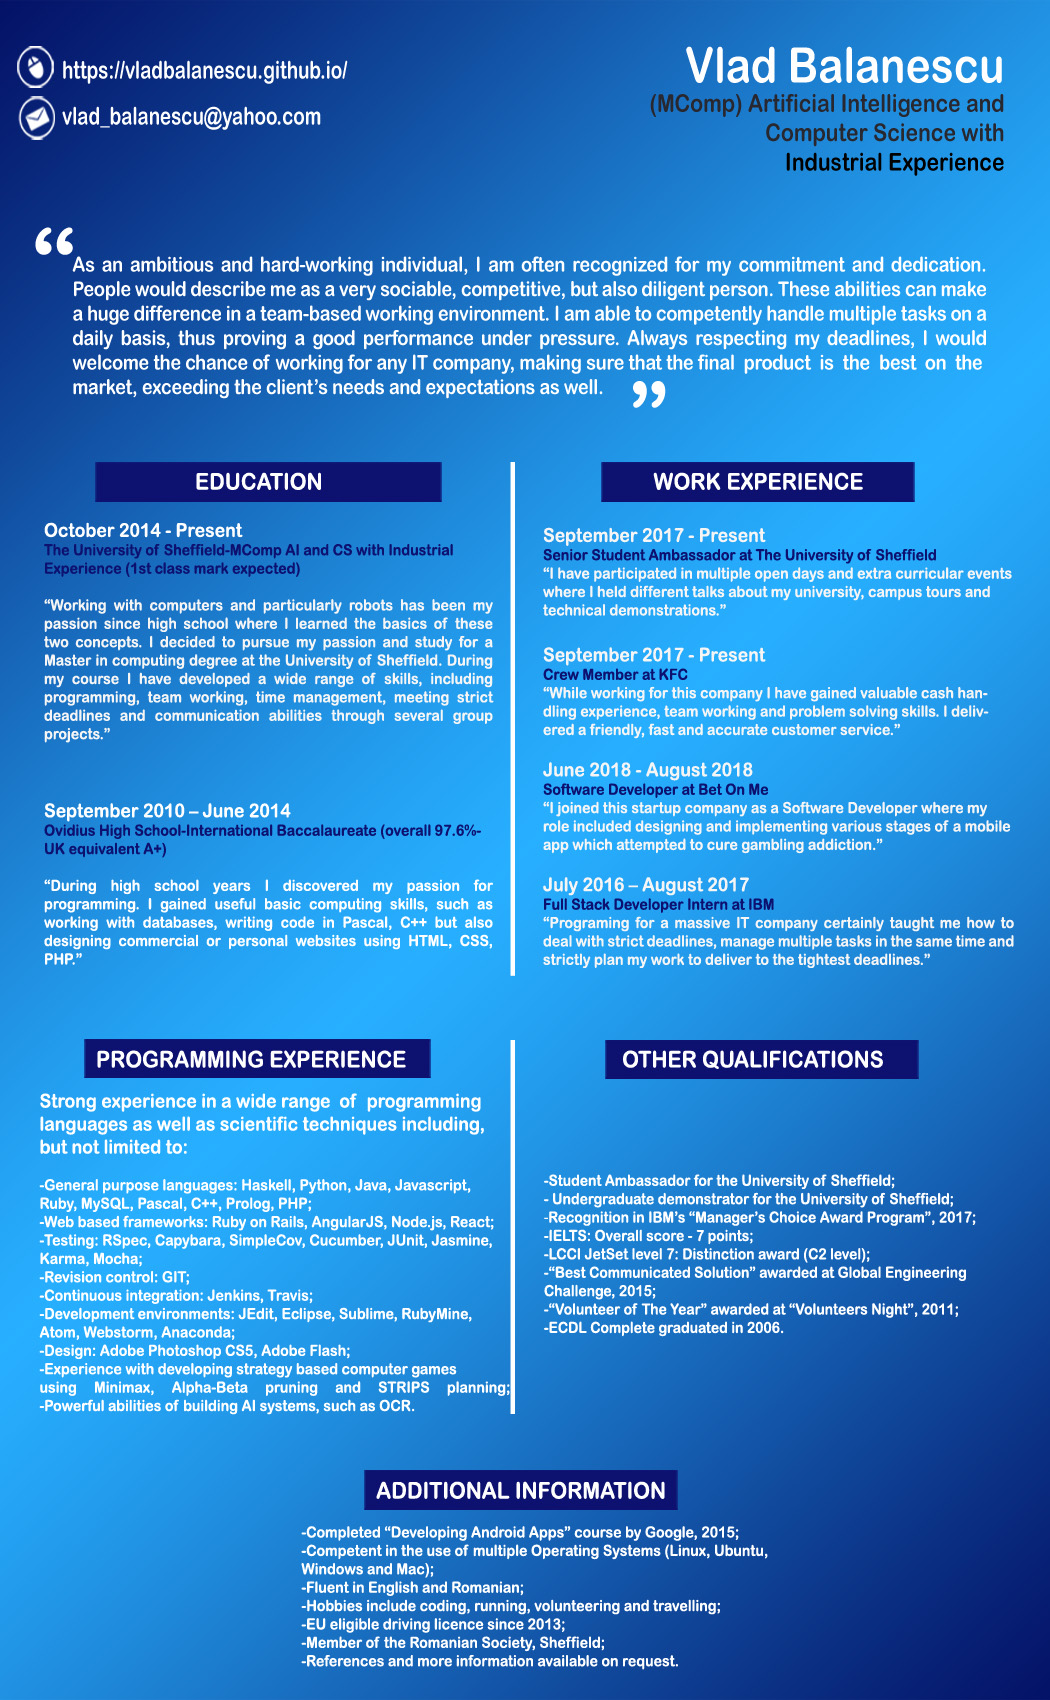
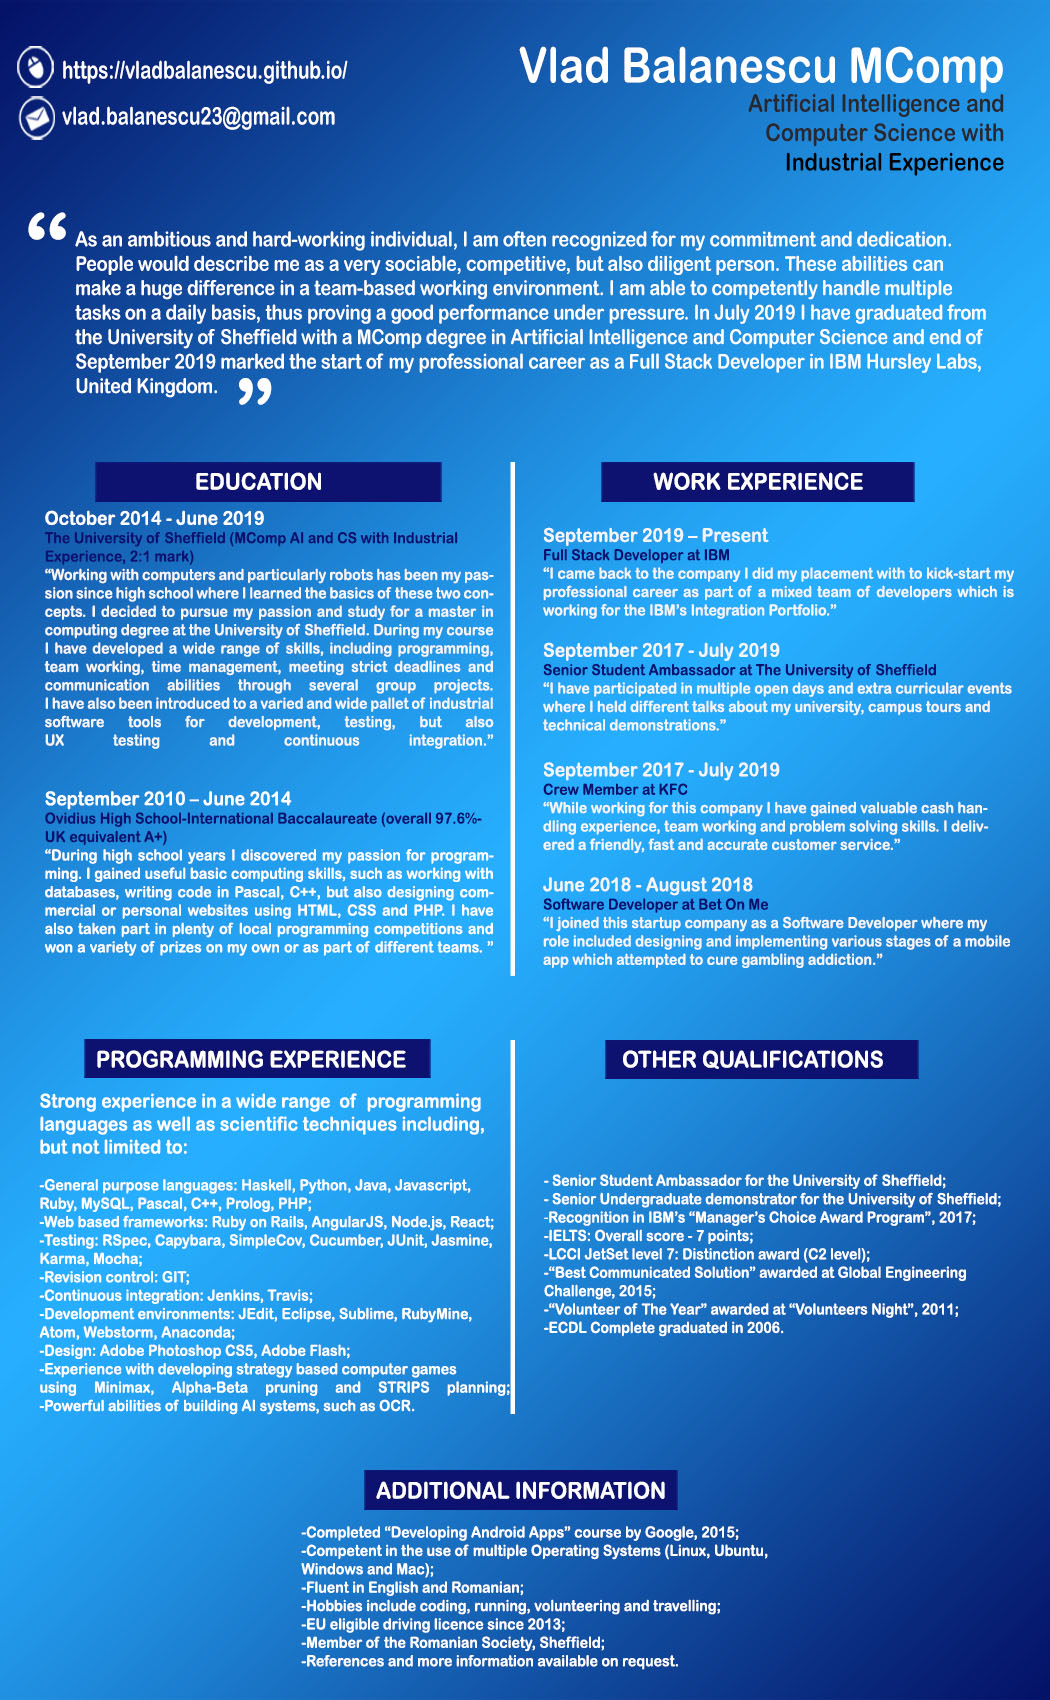
Changed the version to the most recent version

diff --git a/index.html b/index.html
@@ -90,7 +90,7 @@
 				<div class="front">
 					<!-- front content -->
 					<div id="titleBox">
-						<p id="title">  Final year student at The University of Sheffield</p>
+						<p id="title">  Full Stack Developer at IBM Hursley Labs, UK</p>
 						<p id="degree">(MComp) Artificial Intelligence and Computer Science with Industrial Experience </p>
 					</div>
 				</div>
@@ -117,7 +117,7 @@
 			</li>
 			<li><img class="top" src="Multimedia/Gallery/G3.jpg" alt="" /></li>
 		</ul>
-		<a href="passions.html#fullGallery" id="visitG"> Visit the full gallery ! </a>
+		<a href="passions.html#fullGallery" id="visitG"> Visit the entire gallery  </a>
 
 		<!--Story box-->
 		<div id="aboutMeBox">
@@ -140,7 +140,7 @@
 			<!--<a href="#" id="readMore">
       Read more here! </a>-->
 			<p class="storyTitle"> What's Coming Next? </p>
-			<p class="story"> After finishing the remaining 2 university years, I am looking forward to work for a well-known IT company, where I will definitely have the chance to put all my skills and abilities into practice. I would really welcome the chance to either give a
+			<p class="story"> After finishing the last 2 university years, I am looking forward to start my professional career as a Full Stack Developer at IBM Hursley Labs, United Kingdom. I will definitely have the chance to put all my skills and abilities into practice. I would really welcome the chance to either give a
 				hand in coding for a big software project or pursuing and developing even further the world of Artificial Intelligence, discovering maybe some brand new concepts relevant to this domain. I am very passionate about human language processing, hence
 				I think this is the most suitable way to set up a mutual communication bridge between humans and machines. Nowadays, this ability is seen as the best way of proving a machine made up of different mechanical components tightened together by wires can
 				demonstrate intelligence.</p>
@@ -157,8 +157,8 @@
 				</li>
 			</ul>
 		</div>
-		<p id="footerText"> &copy; Vlad Balanescu | Personal Website | All rights reserved | 2018</p>
-		<p id="footerText2"> Last updated on 13<sup>th</sup> of December 2018</p>
+		<p id="footerText"> &copy; Vlad Balanescu | Personal Website | All rights reserved | 2019</p>
+		<p id="footerText2"> Last updated on 15<sup>th</sup> of May 2019</p>
 	</div>
 </body>
 

diff --git a/contact.html b/contact.html
@@ -103,7 +103,9 @@
 						<input class="checkBox" type="checkbox" name="checkBox3">
 						<p> Bug </p>
 					</div>
-					<button id="send">Send</button>
+					<!-- Deactivated SEND button as the website is hosted on GITHUB which doesn't provide PHP functionality -->
+					<!-- <button id="send">Send</button> -->
+					<button id="sendFake">Send</button>
 					<button id="reset" type="reset">Reset</button>
 				</form>
 			</div>
@@ -116,7 +118,7 @@
 				<a target="_blank" href="http://stackoverflow.com/users/story/4913220"><img class="socialButton" src="Multimedia/StackOverflow.png" alt="" /></a>
 				<a target="_blank" href="https://www.youtube.com/channel/UC61RAwZLa7WYVIZm915k2eA"><img class="socialButton" src="Multimedia/YouTube.png" alt="" /></a>
 			</div>
-			<p class="findMe"><span class="bold"> E-mail:</span> vlad_balanescu@yahoo.com </p>
+			<p class="findMe"><span class="bold"> E-mail:</span> vlad.balanescu23@gmail.com </p>
 		</div>
 	</div>
 
@@ -131,8 +133,8 @@
 				</li>
 			</ul>
 		</div>
-		<p id="footerText"> &copy; Vlad Balanescu | Personal Website | All rights reserved | 2018</p>
-		<p id="footerText2"> Last updated on 13<sup>th</sup> of December 2018</p>
+		<p id="footerText"> &copy; Vlad Balanescu | Personal Website | All rights reserved | 2019</p>
+		<p id="footerText2"> Last updated on 15<sup>th</sup> of May 2019</p>
 	</div>
 </body>
 

diff --git a/passions.html b/passions.html
@@ -198,8 +198,8 @@
 				</li>
 			</ul>
 		</div>
-		<p id="footerText"> &copy; Vlad Balanescu | Personal Website | All rights reserved | 2018</p>
-		<p id="footerText2"> Last updated on 13<sup>th</sup> of December 2018</p>
+		<p id="footerText"> &copy; Vlad Balanescu | Personal Website | All rights reserved | 2019</p>
+		<p id="footerText2"> Last updated on 15<sup>th</sup> of May 2019</p>
 	</div>
 
 	<!--Special script - needs to load after the html-->

diff --git a/Stylesheets/contact.css b/Stylesheets/contact.css
@@ -130,7 +130,7 @@
     resize: none;
 }
 
-#send, #reset {
+#send, #sendFake, #reset {
     width: 6vw;
     background-color: #1F3370;
     font-size: 1vw;
@@ -147,11 +147,11 @@
     padding: 0.5vw 1.5vw;
 }
 
-#send {
+#send, #sendFake {
   margin: 0.8vw 0.5vw 5vw 14vw;
 }
 
-#send:hover, #reset:hover {
+#send:hover, #sendFake:hover, #reset:hover {
     color: #66ffff;
     -webkit-transition: 0.8s;
     -moz-transition: 0.8s;

diff --git a/resume.html b/resume.html
@@ -96,8 +96,8 @@
 					</li>
 				</ul>
 			</div>
-			<p id="footerText"> &copy; Vlad Balanescu | Personal Website | All rights reserved | 2018</p>
-			<p id="footerText2"> Last updated on 13<sup>th</sup> of December 2018</p>
+			<p id="footerText"> &copy; Vlad Balanescu | Personal Website | All rights reserved | 2019</p>
+			<p id="footerText2"> Last updated on 15<sup>th</sup> of May 2019</p>
 		</div>
 	</div>
 </body>

diff --git a/accessibility.html b/accessibility.html
@@ -123,8 +123,8 @@
 				</li>
 			</ul>
 		</div>
-		<p id="footerText"> &copy; Vlad Balanescu | Personal Website | All rights reserved | 2018</p>
-		<p id="footerText2"> Last updated on 13<sup>th</sup> of December 2018</p>
+		<p id="footerText"> &copy; Vlad Balanescu | Personal Website | All rights reserved | 2019</p>
+		<p id="footerText2"> Last updated on 15<sup>th</sup> of May 2019</p>
 	</div>
 </body>
 

diff --git a/games.html b/games.html
@@ -115,8 +115,8 @@
 				</li>
 			</ul>
 		</div>
-		<p id="footerText"> &copy; Vlad Balanescu | Personal Website | All rights reserved | 2018</p>
-		<p id="footerText2"> Last updated on 13<sup>th</sup> of December 2018</p>
+		<p id="footerText"> &copy; Vlad Balanescu | Personal Website | All rights reserved | 2019</p>
+		<p id="footerText2"> Last updated on 15<sup>th</sup> of May 2019</p>
 	</div>
 </body>
 

diff --git a/portfolio1.html b/portfolio1.html
@@ -400,8 +400,8 @@
 				</li>
 			</ul>
 		</div>
-		<p id="footerText"> &copy; Vlad Balanescu | Personal Website | All rights reserved | 2018</p>
-		<p id="footerText2"> Last updated on 13<sup>th</sup> of December 2018</p>
+		<p id="footerText"> &copy; Vlad Balanescu | Personal Website | All rights reserved | 2019</p>
+		<p id="footerText2"> Last updated on 15<sup>th</sup> of May 2019</p>
 	</div>
 </body>
 

diff --git a/portfolio2.html b/portfolio2.html
@@ -345,8 +345,8 @@
 				</li>
 			</ul>
 		</div>
-		<p id="footerText"> &copy; Vlad Balanescu | Personal Website | All rights reserved | 2018</p>
-		<p id="footerText2"> Last updated on 13<sup>th</sup> of December 2018</p>
+		<p id="footerText"> &copy; Vlad Balanescu | Personal Website | All rights reserved | 2019</p>
+		<p id="footerText2"> Last updated on 15<sup>th</sup> of May 2019</p>
 	</div>
 </body>
 

diff --git a/portfolio3.html b/portfolio3.html
@@ -126,8 +126,8 @@
 				</li>
 			</ul>
 		</div>
-		<p id="footerText"> &copy; Vlad Balanescu | Personal Website | All rights reserved | 2018</p>
-		<p id="footerText2"> Last updated on 13<sup>th</sup> of December 2018</p>
+		<p id="footerText"> &copy; Vlad Balanescu | Personal Website | All rights reserved | 2019</p>
+		<p id="footerText2"> Last updated on 15<sup>th</sup> of May 2019</p>
 	</div>
 </body>
 

diff --git a/portfolio4.html b/portfolio4.html
@@ -310,8 +310,8 @@
 				</li>
 			</ul>
 		</div>
-		<p id="footerText"> &copy; Vlad Balanescu | Personal Website | All rights reserved | 2018</p>
-		<p id="footerText2"> Last updated on 13<sup>th</sup> of December 2018</p>
+		<p id="footerText"> &copy; Vlad Balanescu | Personal Website | All rights reserved | 2019</p>
+		<p id="footerText2"> Last updated on 15<sup>th</sup> of May 2019</p>
 	</div>
 </body>
 

diff --git a/portfolio5.html b/portfolio5.html
@@ -212,8 +212,8 @@
 				</li>
 			</ul>
 		</div>
-		<p id="footerText"> &copy; Vlad Balanescu | Personal Website | All rights reserved | 2018</p>
-		<p id="footerText2"> Last updated on 13<sup>th</sup> of December 2018</p>
+		<p id="footerText"> &copy; Vlad Balanescu | Personal Website | All rights reserved | 2019</p>
+		<p id="footerText2"> Last updated on 15<sup>th</sup> of May 2019</p>
 	</div>
 </body>
 
